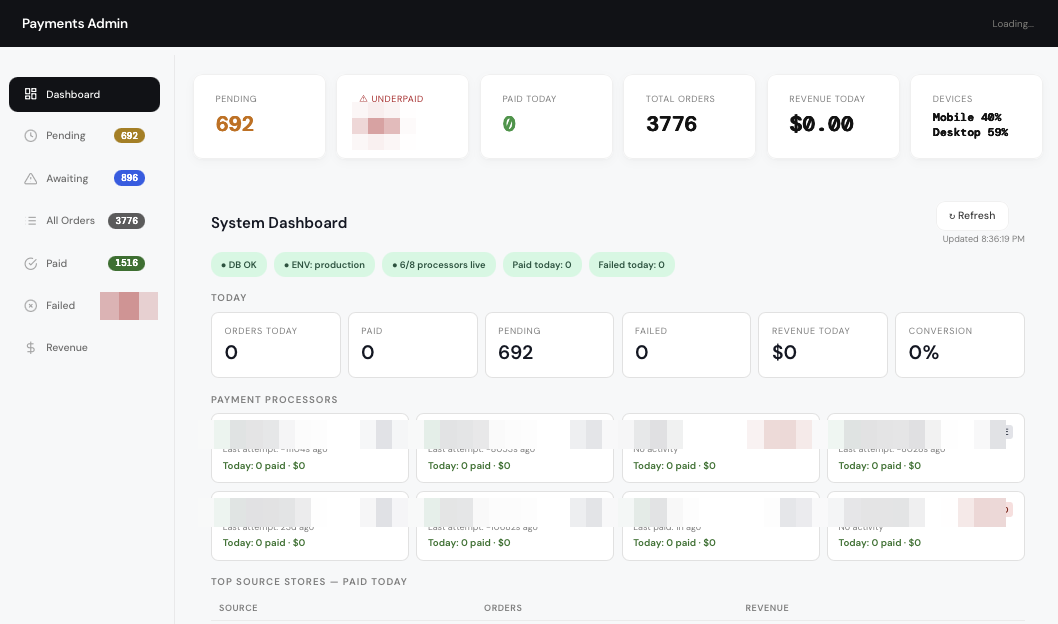
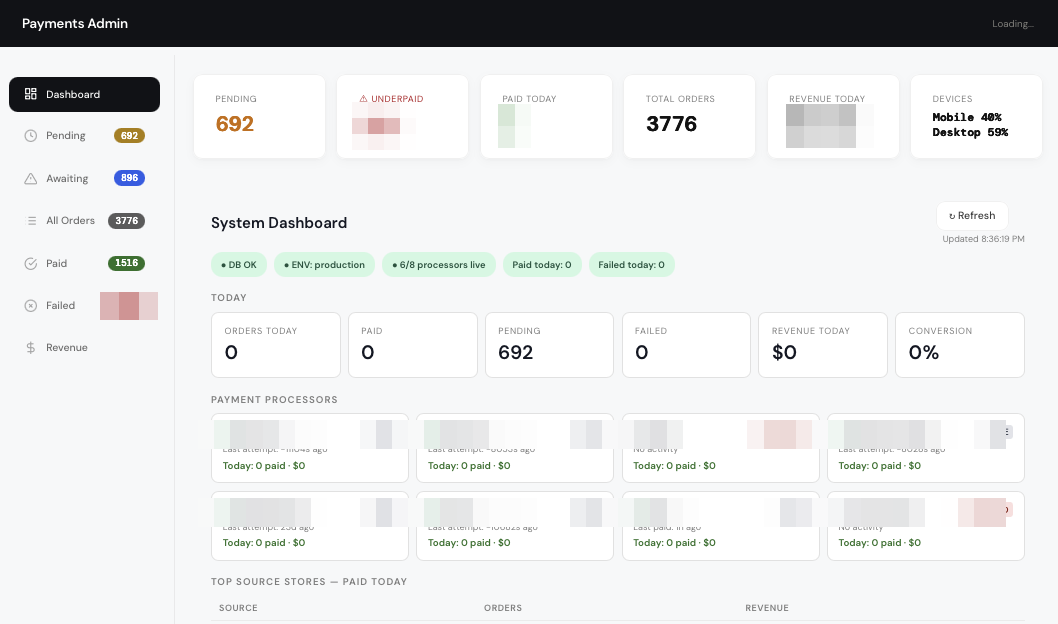
Portfolio: click-to-enlarge lightbox on all Our Work images + redact Paid Today / Revenue Today on Payments Ops

Changed region(s): [[0.7174, 0.1522, 0.811, 0.2436], [0.4679, 0.1522, 0.4991, 0.2436]]

diff --git a/index.html b/index.html
@@ -190,6 +190,12 @@ addEventListener('pageshow',function(){ document.body.style.overflow=''; });</sc
 .pf-card figcaption h3{margin:0 0 6px;font-size:18px;color:#F6F3FE}
 .pf-card figcaption p{margin:0;color:var(--mut2);font-size:14px;line-height:1.55}
 .pf-cta{text-align:center;margin-top:46px}
+.pf-shot{cursor:zoom-in}
+.pf-lb{position:fixed;inset:0;background:rgba(7,6,13,.94);display:none;align-items:center;justify-content:center;z-index:3000;cursor:zoom-out;padding:20px}
+.pf-lb.show{display:flex}
+.pf-lb img{max-width:96vw;max-height:92vh;border-radius:12px;box-shadow:0 30px 90px rgba(0,0,0,.7);border:1px solid rgba(168,85,247,.35)}
+.pf-lb-x{position:fixed;top:16px;right:22px;background:none;border:none;color:#fff;font-size:36px;line-height:1;cursor:pointer;opacity:.85;font-family:inherit}
+.pf-lb-x:hover{opacity:1}
 
   @media(max-width:920px){ .grid{grid-template-columns:repeat(3,1fr)} .hookwhy{grid-template-columns:1fr} .twocol{grid-template-columns:1fr;gap:32px} }
   @media(max-width:680px){ .grid{grid-template-columns:repeat(2,1fr)} .searches{grid-template-columns:1fr} .frow{grid-template-columns:1fr} .navhide{display:none} .logo span{display:none} }
@@ -850,6 +856,8 @@ var H=isFr?{ey:"Nos réalisations",h:"Les outils qu’on bâtit et qu’on opèr
 var cards=PORTFOLIO.map(function(p){var c=isFr?p.fr:p.en;return "<figure class='pf-card'><div class='pf-shot'><img loading='lazy' src='/portfolio/"+p.id+".png' alt='Vanta "+p.tag+"'/><span class='pf-tag'>"+p.tag+"</span></div><figcaption><h3>"+c.t+"</h3><p>"+c.d+"</p></figcaption></figure>";}).join("");
 return "<div class='sec'><div class='wrap'><div class='pf-head'><div class='eyebrow'>"+H.ey+"</div><h1>"+H.h+"</h1><p class='lead'>"+H.sub+"</p></div><div class='pf-grid'>"+cards+"</div><div class='pf-cta'><a class='btn primary lg' href='#/book'>"+(isFr?"Réserver un appel":"Book a call")+"</a></div></div></div>";
 }
+document.addEventListener('click',function(e){var shot=e.target.closest&&e.target.closest('.pf-shot');if(!shot)return;var img=shot.querySelector('img');if(!img)return;e.preventDefault();var lb=document.getElementById('pfLightbox');if(!lb){lb=document.createElement('div');lb.id='pfLightbox';lb.className='pf-lb';lb.innerHTML='<button class="pf-lb-x" aria-label="Close">&times;</button><img alt="" />';document.body.appendChild(lb);lb.addEventListener('click',function(){lb.classList.remove('show');document.body.style.overflow='';});}lb.querySelector('img').setAttribute('src',img.getAttribute('src'));lb.classList.add('show');document.body.style.overflow='hidden';});
+document.addEventListener('keydown',function(e){if(e.key==='Escape'){var lb=document.getElementById('pfLightbox');if(lb&&lb.classList.contains('show')){lb.classList.remove('show');document.body.style.overflow='';}}});
 function route(){
   const h = location.hash || '#/';
   if(!h.startsWith('#/')){ if(!document.getElementById('homeContent').innerHTML){ document.getElementById('homeContent').innerHTML=renderHome(); show('view-home'); } return; }   // in-page anchor like #form -> not an app route; don't re-route, let the page scroll